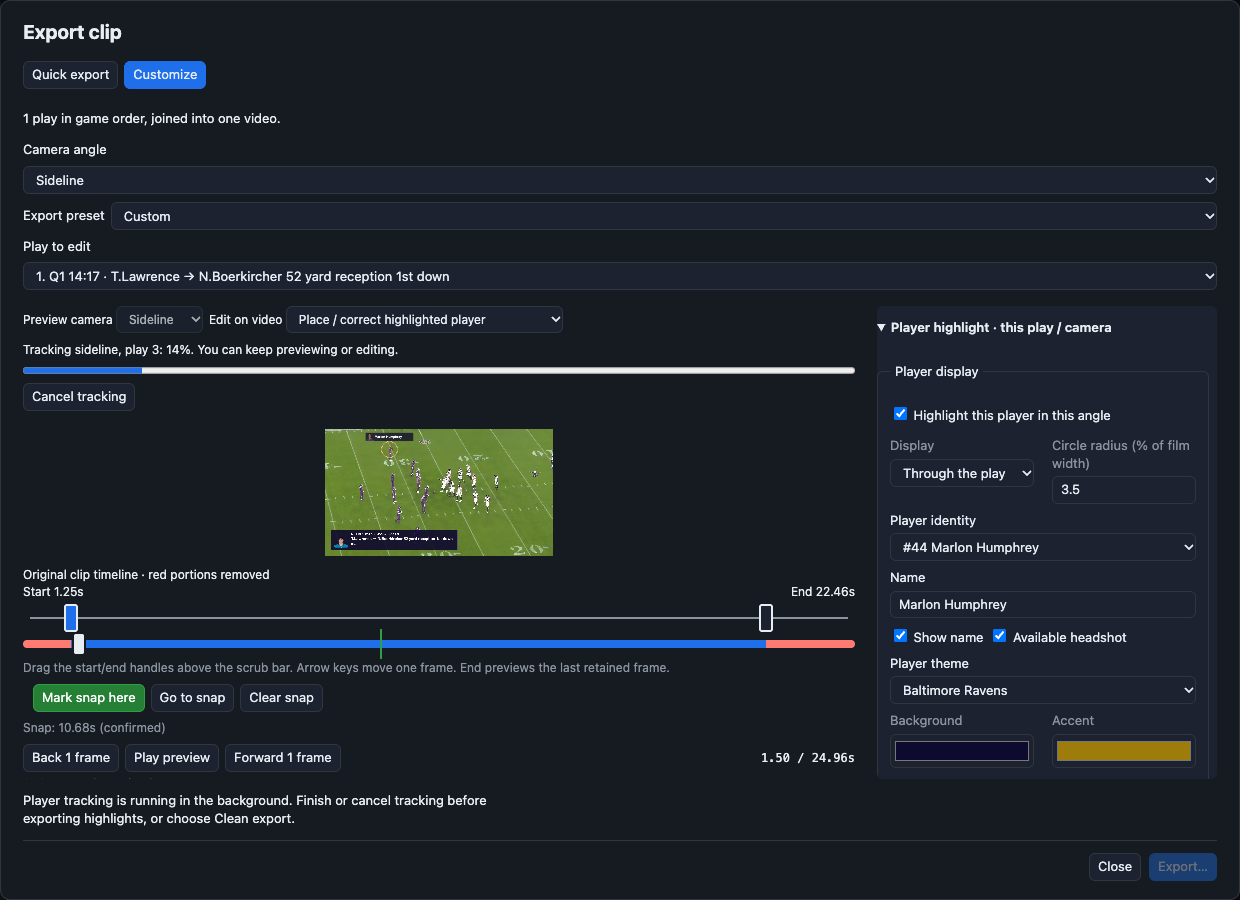
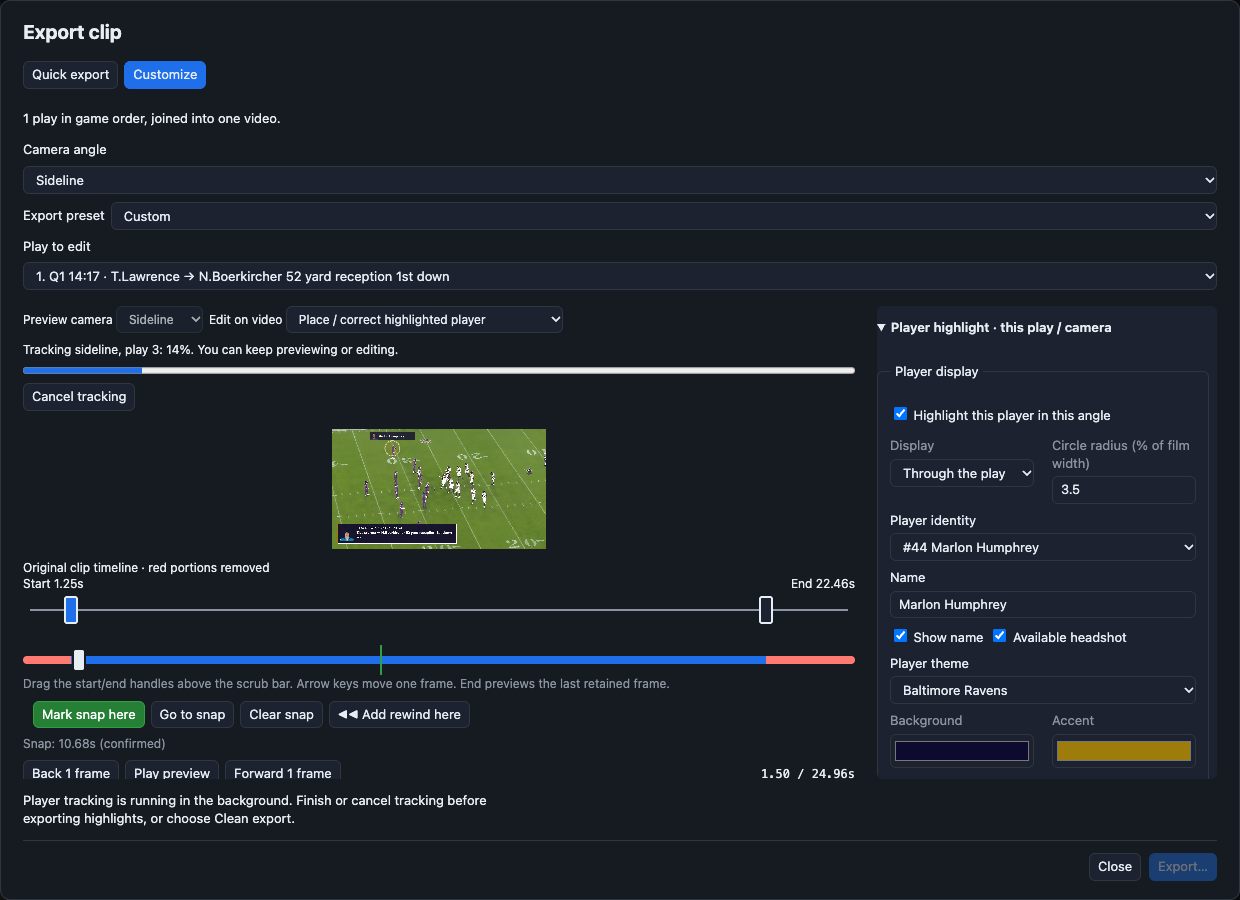
Prepare AMP22 1.2.0 with release-candidate film screenshots

Changed region(s): [[0.0, 0.6222, 0.7048, 0.8711], [0.2452, 0.4667, 0.4597, 0.6222], [0.6129, 0.84, 0.7048, 0.8711]]

diff --git a/README.md b/README.md
@@ -32,9 +32,9 @@ Choose **Export clip** for video, or **Export stats** for a CSV without film. Cl
 
 ### Synced sideline and end zone
 
-Browse color-coded plays and drive summaries while watching both angles together. The glossy toolbar wordmark blends into the UI without a black badge. Frame stepping, playback speed, and sync-offset controls sit below the film, with the selected play's result and charting tags. **Film setup** stays in the viewer's lower-right corner for changing files without a separate film-selection bar. This refreshed AMP22 1.1.0 capture uses the supplied 2026 Jaguars at Ravens single-file All-22, real play-by-play, imported NFL Pro participation, and an existing `0.03`-threshold analysis with 148 film pairs. The selected Q1 14:17 play is paused at 9.49 seconds, showing both actual pre-snap angles at Jacksonville's 27-yard line; the solid green marker just ahead of the playhead is its confirmed snap at 10.68 seconds, with the snap controls below the scrub bar. The genuine import has 148 complete player lists and 109 NGS-charted plays; the app also warns about nine source disagreements, retaining existing values.
+Browse color-coded plays and drive summaries while watching both angles together. The glossy toolbar wordmark blends into the UI without a black badge. Frame stepping, playback speed, and sync-offset controls sit below the film, with the selected play's result and charting tags. **Film setup** stays in the viewer's lower-right corner for changing files without a separate film-selection bar. This AMP22 1.2.0 capture uses the supplied 2026 Jaguars at Ravens single-file All-22, real play-by-play, imported NFL Pro participation, and an existing `0.03`-threshold analysis with 148 film pairs. The selected Q1 14:17 play is paused at 9.49 seconds, showing both actual pre-snap angles at Jacksonville's 27-yard line; the solid green marker just ahead of the playhead is its confirmed snap at 10.68 seconds, with the snap controls below the scrub bar. The genuine import has 148 complete player lists and 109 NGS-charted plays; the app also warns about nine source disagreements, retaining existing values.
 
-![AMP22 1.1.0 Film Room with actual Jaguars at Ravens All-22 at Q1 14:17, both pre-snap angles, a solid green confirmed-snap marker at 10.68 seconds, snap controls, complete NFL Pro participation, and 148 log entries linked to 148 film pairs](docs/screenshots/synced-viewer.png)
+![AMP22 1.2.0 Film Room with actual Jaguars at Ravens All-22 at Q1 14:17, both pre-snap angles, a solid green confirmed-snap marker at 10.68 seconds, snap controls, complete NFL Pro participation, and 148 log entries linked to 148 film pairs](docs/screenshots/synced-viewer.png)
 
 ### Snap markers and local learning
 
@@ -252,7 +252,7 @@ This running-app capture edits the second of two selected plays from the supplie
 
 Rewinds are part of the current export draft, like trims, and are not saved with the play. They are timed from the trimmed start, a rewind that falls outside the trimmed range is shown dimmed and ignored, and a length that would reach before the trimmed start is shortened. They apply with every layout, with clean exports, and with player highlights, which follow the footage backward. The play-information card still follows the output's own timeline, so it appears over the opening seconds rather than replaying. The live preview steps the video in reverse, so it is choppier than the export and silent; the exported MP4 is smooth, with reversed audio at the chosen speed. Exporting a rewind needs more memory while encoding (about 1.5 GB for a few seconds at 1080p), so keep rewinds short on very constrained machines.
 
-This running-app capture of the Q1 14:17 Jaguars play shows three overlapping rewinds from the supplied film, each with its own color and band, and the second one's editor open with a 2.5-second length at 2×.
+This running-app capture of the Q1 14:17 Jaguars play shows three rewind markers, each with a matching band below the scrubber. The second marker's editor is open: 2.5 seconds of footage plays backward at 2×, then replays forward, adding 3.75 seconds to the export.
 
 <img src="docs/screenshots/rewind-editor.png" width="1000" alt="Actual AMP22 Customize export preview for Jaguars at Ravens Q1 14:17 with three numbered, colored rewind markers above the timeline, colored bands below the scrubber showing how far back each rewind reaches, and the second rewind's editor open with Length, Speed, and Delete controls" />
 
